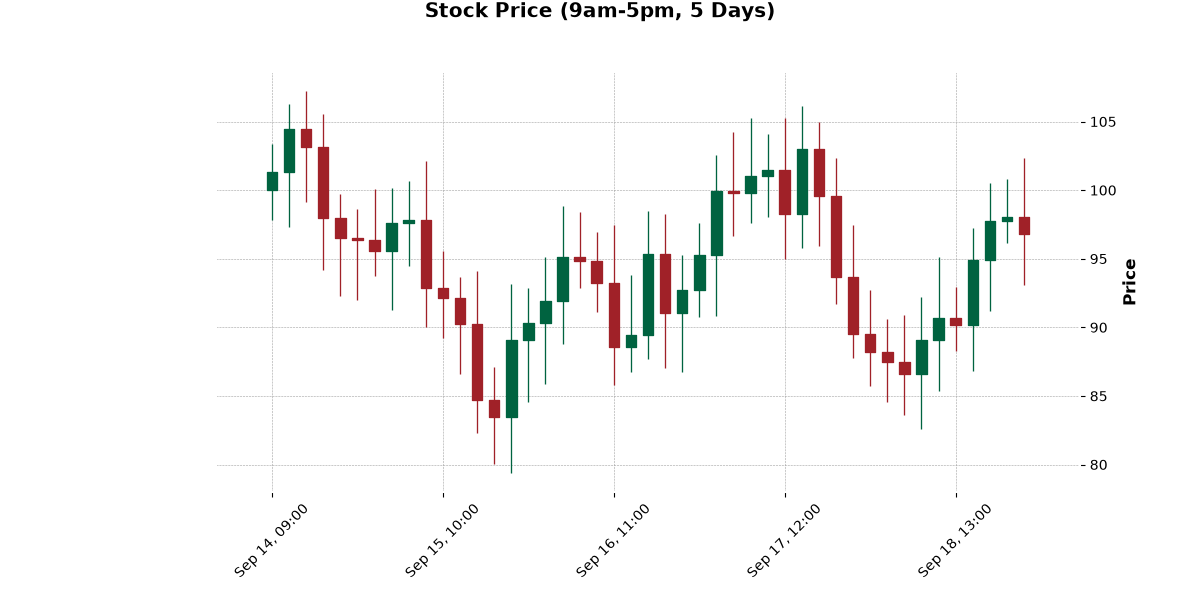
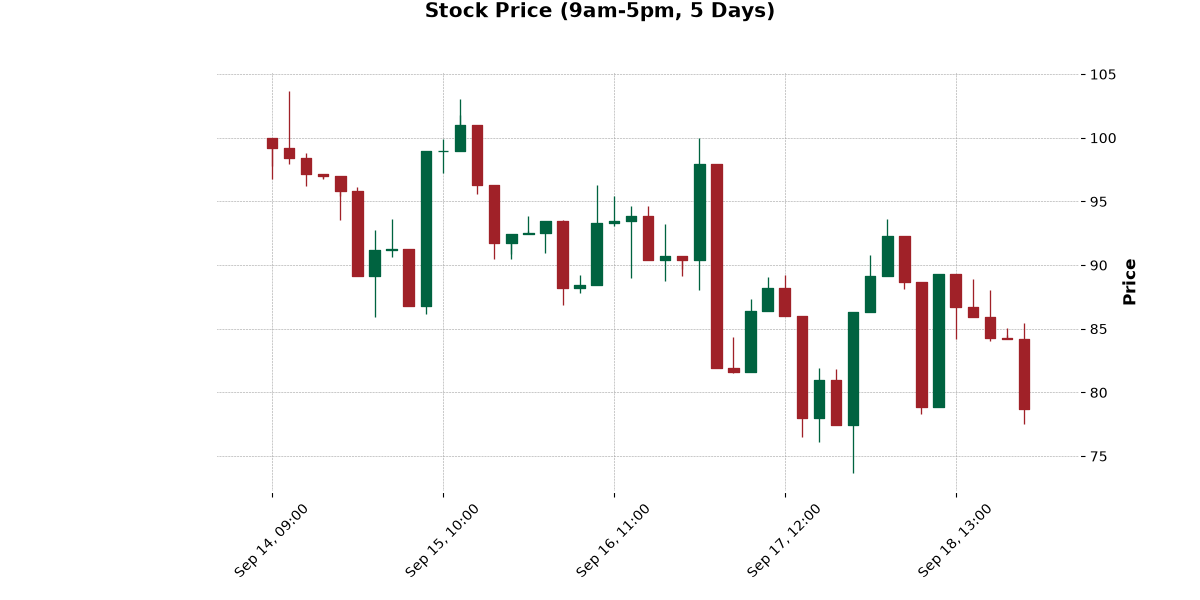
save

diff --git a/maths&stats/price_modeling.py b/maths&stats/price_modeling.py
@@ -18,8 +18,8 @@ folder_name = os.path.join(master_dir, "processor")
 os.makedirs(folder_name, exist_ok=True)
 filename = os.path.join(folder_name, "generated_data.csv")
 chart_file = os.path.join(folder_name, "stock_chart.png")
-
-rand.seed(rand.randint(-1000000,1000000))
+seed=rand.randint(-1000000,1000000)
+rand.seed(seed)
 start_day = pd.Timestamp("2026-09-14")
 all_timestamps = []
 for offset in range(5):
@@ -28,17 +28,23 @@ for offset in range(5):
         all_timestamps.append(pd.Timestamp(day.date()) + pd.Timedelta(hours=hour))
 
 rows = []
+max_1
+max_1
+max_1
+max_1
 prev_close = 100.0
+#Looking at gpbusd the ratio between (O-C)/(H-L) ranges from (2-3)% to 100%, so close price should reflect this
+#try making % change over 5 days between (5-23)% in both ways
 for idx, ts in enumerate(all_timestamps):
+    k = rand.randint(1,70)/4
     open_price = prev_close
-    close_price = open_price + rand.uniform(-6, 6)
-    high = max(open_price, close_price) + rand.uniform(1.5, 4.5)
-    low = min(open_price, close_price) - rand.uniform(1.5, 4.5)
-    #if low < 80:
-    #    low = 80
-    #if high > 130:
-    #    high = 130
-
+    close_price = open_price + rand.uniform(-k, k)
+    high = max(open_price, close_price) + rand.gauss(mu=0.3, sigma=0.1*rand.randint(10,23) )
+    low = min(open_price, close_price) -  rand.gauss(mu=0.3, sigma=0.1*rand.randint(10,23) )
+        
+        
+        
+    
     row = {
         "Open": round(open_price, 2),
         "High": round(high, 2),
@@ -83,7 +89,7 @@ def desmos_points(column_name):
     )
     return f"[{points}]"
 
-
+print(f"Seed is {seed}")
 data_given = input("What data do you want? ").strip().lower()
 print()
 if data_given == "open":
